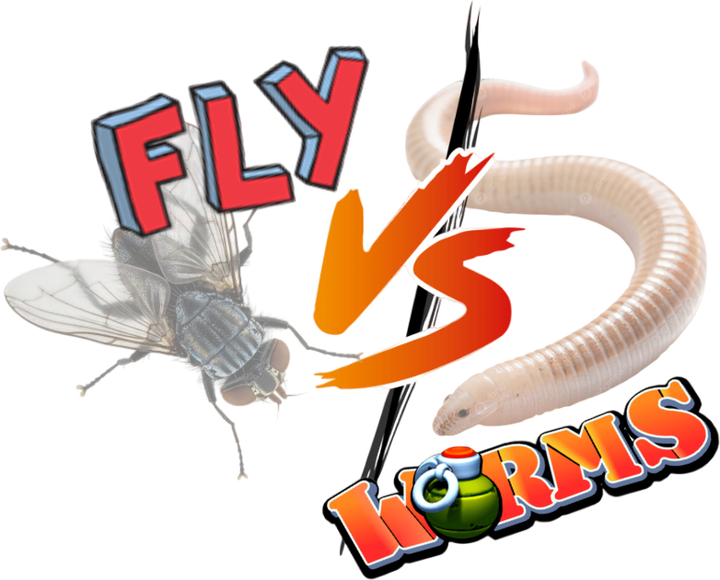
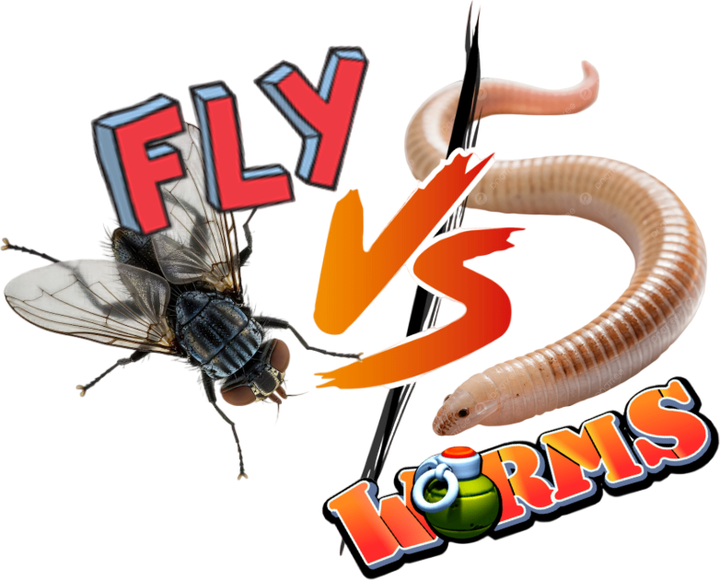
feat(web): new badge artwork and a quiet grey enter button
Swaps in the cleaner cutout of the FLY VS WORMS badge — sharper fly, more
detail in the worm — and drops the arcade styling on the button.

The button is now neutral grey: flat fill, hairline border, no gradient, no
offset shadow, no press travel. The badge is doing the shouting and a second
loud element beside it read as two competing buttons. Grey rather than the
slate the touch buttons use, so it belongs to the card and not to the chrome.
The ID still has to outrank `button:hover`, or that rule repaints it slate the
moment the pointer lands on it.

The artwork went through the same pipeline as the last one: threshold the
alpha at 12 before cropping, because the cutout leaves a 1-2 halo over the
whole frame and getbbox() on the raw channel returns all 1920x1080 and crops
nothing. Same 782x630 of real content, same 720px output. 544 KB source to
380 KB, up 21 KB on the previous badge, which is the extra detail.

Filename is unchanged, so no markup moved and the card still fades as one
element on ENTER.

Validation. Live: badge loads 720x580, draws 312px, sits 144px clear of the
right edge, camera does not move on load. After ENTER the card reads opacity 0
with pointer-events none — badge and button leave together — and the camera
walks to the 4.61 / 0.88 pose.

Changed region(s): [[0.0, 0.2172, 0.5194, 0.8069], [0.5806, 0.2483, 1.0, 0.7759], [0.55, 0.0931, 0.8556, 0.3103]]

diff --git a/wormed/web/index.html b/wormed/web/index.html
@@ -50,23 +50,20 @@
      intrinsic width/height on the tag itself reserves the box before the PNG
      arrives, or the button jumps when it does. */
   #vs { display: block; width: min(340px, 26vw); height: auto; }
-  /* Chunky arcade button, to match a cartoon badge rather than the slate
-     chrome the touch buttons use. The ID beats `button:hover` on specificity,
-     so the gradient survives the hover rule above instead of being flattened
-     back to slate. The offset shadow is the button's THICKNESS — press state
-     shortens it and drops the face onto it, which is what sells the click. */
-  #enter { padding: 15px 46px; font-size: 15px; font-weight: 700;
-           letter-spacing: 0.28em; color: #fff;
-           background: linear-gradient(180deg, #fbbf24 0%, #f97316 42%, #dc2626 100%);
-           border: 2px solid #1a1110; border-radius: 999px;
-           text-shadow: 0 2px 0 rgba(0,0,0,0.42);
-           box-shadow: 0 5px 0 #7f1d1d, 0 12px 20px rgba(0,0,0,0.45);
-           transition: transform 120ms ease, box-shadow 120ms ease,
-                       filter 120ms ease; }
-  #enter:hover { filter: brightness(1.08); transform: translateY(-2px);
-                 box-shadow: 0 7px 0 #7f1d1d, 0 16px 24px rgba(0,0,0,0.5); }
-  #enter:active { transform: translateY(3px);
-                  box-shadow: 0 2px 0 #7f1d1d, 0 5px 10px rgba(0,0,0,0.45); }
+  /* Deliberately quiet: the badge above is doing the shouting, and a second
+     loud element beside it reads as two competing buttons. Neutral grey, not
+     the slate the touch buttons use, so it belongs to the card and not to the
+     chrome. The ID outranks `button:hover` above, or that rule would repaint
+     it slate on hover. */
+  #enter { padding: 13px 42px; font-size: 13px; font-weight: 500;
+           letter-spacing: 0.26em; color: #d6d9dd;
+           background: rgba(38,41,45,0.66); border: 1px solid #4a4f55;
+           border-radius: 6px; backdrop-filter: blur(4px);
+           transition: background 140ms ease, border-color 140ms ease,
+                       color 140ms ease; }
+  #enter:hover { background: rgba(56,61,67,0.82); border-color: #6b7280;
+                 color: #f4f6f8; }
+  #enter:active { background: rgba(28,31,35,0.9); }
   #hint { position: fixed; left: 16px; bottom: 16px; font-size: 11px;
           opacity: 0.55; }
   /* CC BY 4.0 requires the credit to be shown, so it is not inside the reveal. */
